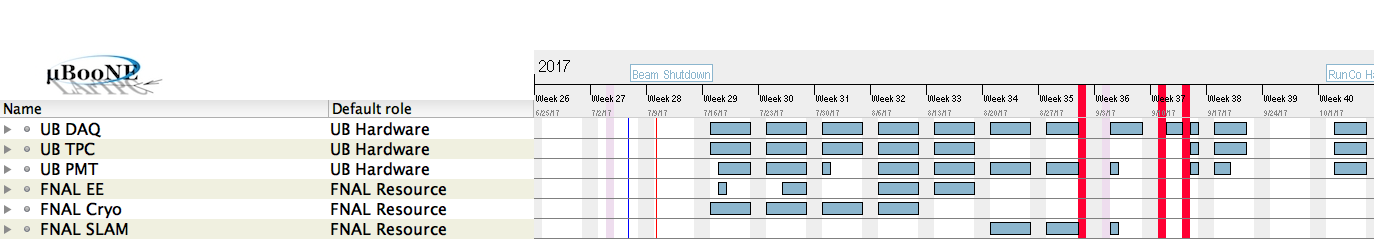
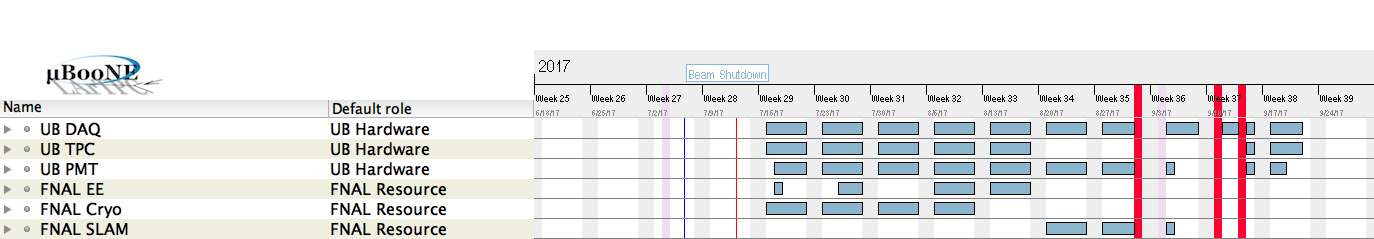
Update

diff --git a/index-tasks.html b/index-tasks.html
@@ -387,7 +387,7 @@ h5.header {
 </div>
 </td><td valign="top" class="cell">
 <div style="margin:0; padding:0; padding-left:0.5em">
-<div style="margin: 0; padding: 0;">7/31/17</div>
+<div style="margin: 0; padding: 0;">8/4/17</div>
 </div>
 </td><td valign="top" class="cell">UB PMT</td>
 </tr>
@@ -447,7 +447,7 @@ h5.header {
 </div>
 </td><td valign="top" class="cell">
 <div style="margin:0; padding:0; padding-left:0.5em">
-<div style="margin: 0; padding: 0;">7/31/17</div>
+<div style="margin: 0; padding: 0;">8/4/17</div>
 </div>
 </td><td valign="top" class="cell"></td>
 </tr>
@@ -686,7 +686,7 @@ h5.header {
 <tr>
 <td bgcolor="#6d9ec6" width="50%"><font color="#FFFFFF"><b>Ganttproject (2.8.5 Pilsen (build 2179))</b></font></td><td bgcolor="#6d9ec6" width="50%" align="right"><b><a href="http://ganttproject.biz">ganttproject.biz</a></b>
 <br>
-<b>7/10/17 - 3:53:47 PM</b></td>
+<b>7/13/17 - 10:40:39 AM</b></td>
 </tr>
 </table>
 </body>

diff --git a/microboone_summer17-tasks.html b/microboone_summer17-tasks.html
@@ -387,7 +387,7 @@ h5.header {
 </div>
 </td><td valign="top" class="cell">
 <div style="margin:0; padding:0; padding-left:0.5em">
-<div style="margin: 0; padding: 0;">7/31/17</div>
+<div style="margin: 0; padding: 0;">8/4/17</div>
 </div>
 </td><td valign="top" class="cell">UB PMT</td>
 </tr>
@@ -447,7 +447,7 @@ h5.header {
 </div>
 </td><td valign="top" class="cell">
 <div style="margin:0; padding:0; padding-left:0.5em">
-<div style="margin: 0; padding: 0;">7/31/17</div>
+<div style="margin: 0; padding: 0;">8/4/17</div>
 </div>
 </td><td valign="top" class="cell"></td>
 </tr>
@@ -686,7 +686,7 @@ h5.header {
 <tr>
 <td bgcolor="#6d9ec6" width="50%"><font color="#FFFFFF"><b>Ganttproject (2.8.5 Pilsen (build 2179))</b></font></td><td bgcolor="#6d9ec6" width="50%" align="right"><b><a href="http://ganttproject.biz">ganttproject.biz</a></b>
 <br>
-<b>7/10/17 - 3:53:47 PM</b></td>
+<b>7/13/17 - 10:40:39 AM</b></td>
 </tr>
 </table>
 </body>

diff --git a/index-chart.html b/index-chart.html
@@ -122,7 +122,7 @@ div.page_links {
 <tr>
 <td bgcolor="#6d9ec6" width="50%"><font color="#FFFFFF"><b>Ganttproject (2.8.5 Pilsen (build 2179))</b></font></td><td bgcolor="#6d9ec6" width="50%" align="right"><b><a href="http://ganttproject.biz">ganttproject.biz</a></b>
 <br>
-<b>7/10/17 - 3:53:47 PM</b></td>
+<b>7/13/17 - 10:40:39 AM</b></td>
 </tr>
 </table>
 </body>

diff --git a/index.html b/index.html
@@ -152,7 +152,7 @@ div.page_links {
 <tr>
 <td bgcolor="#6d9ec6" width="50%"><font color="#FFFFFF"><b>Ganttproject (2.8.5 Pilsen (build 2179))</b></font></td><td bgcolor="#6d9ec6" width="50%" align="right"><b><a href="http://ganttproject.biz">ganttproject.biz</a></b>
 <br>
-<b>7/10/17 - 3:53:47 PM</b></td>
+<b>7/13/17 - 10:40:39 AM</b></td>
 </tr>
 </table>
 </body>

diff --git a/microboone_summer17-chart.html b/microboone_summer17-chart.html
@@ -122,7 +122,7 @@ div.page_links {
 <tr>
 <td bgcolor="#6d9ec6" width="50%"><font color="#FFFFFF"><b>Ganttproject (2.8.5 Pilsen (build 2179))</b></font></td><td bgcolor="#6d9ec6" width="50%" align="right"><b><a href="http://ganttproject.biz">ganttproject.biz</a></b>
 <br>
-<b>7/10/17 - 3:53:47 PM</b></td>
+<b>7/13/17 - 10:40:39 AM</b></td>
 </tr>
 </table>
 </body>

diff --git a/microboone_summer17.html b/microboone_summer17.html
@@ -152,7 +152,7 @@ div.page_links {
 <tr>
 <td bgcolor="#6d9ec6" width="50%"><font color="#FFFFFF"><b>Ganttproject (2.8.5 Pilsen (build 2179))</b></font></td><td bgcolor="#6d9ec6" width="50%" align="right"><b><a href="http://ganttproject.biz">ganttproject.biz</a></b>
 <br>
-<b>7/10/17 - 3:53:47 PM</b></td>
+<b>7/13/17 - 10:40:39 AM</b></td>
 </tr>
 </table>
 </body>

diff --git a/index-resources.html b/index-resources.html
@@ -175,7 +175,7 @@ h5.header {
 <tr>
 <td bgcolor="#6d9ec6" width="50%"><font color="#FFFFFF"><b>Ganttproject (2.8.5 Pilsen (build 2179))</b></font></td><td bgcolor="#6d9ec6" width="50%" align="right"><b><a href="http://ganttproject.biz">ganttproject.biz</a></b>
 <br>
-<b>7/10/17 - 3:53:47 PM</b></td>
+<b>7/13/17 - 10:40:39 AM</b></td>
 </tr>
 </table>
 </body>

diff --git a/microboone_summer17-resources.html b/microboone_summer17-resources.html
@@ -175,7 +175,7 @@ h5.header {
 <tr>
 <td bgcolor="#6d9ec6" width="50%"><font color="#FFFFFF"><b>Ganttproject (2.8.5 Pilsen (build 2179))</b></font></td><td bgcolor="#6d9ec6" width="50%" align="right"><b><a href="http://ganttproject.biz">ganttproject.biz</a></b>
 <br>
-<b>7/10/17 - 3:53:47 PM</b></td>
+<b>7/13/17 - 10:40:39 AM</b></td>
 </tr>
 </table>
 </body>
